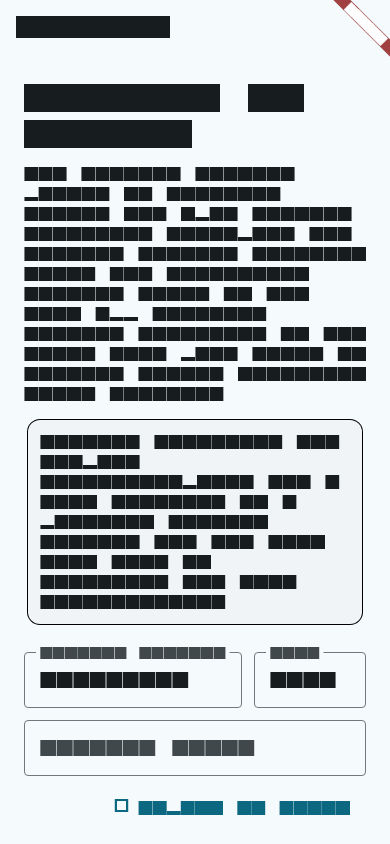
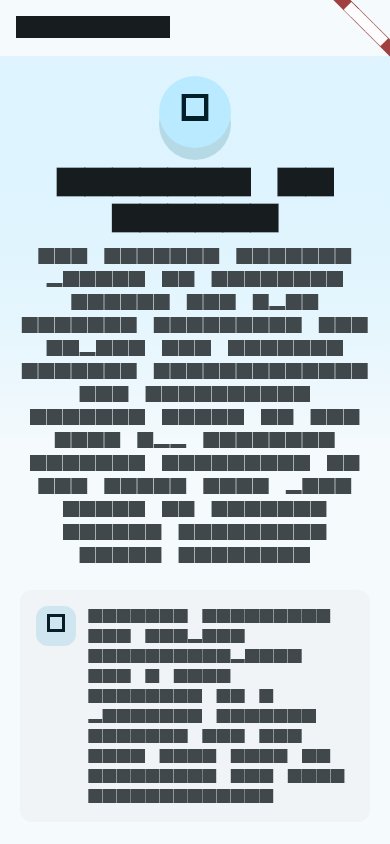
Redact constructed config admin secrets

diff --git a/lib/core/gateway/config_admin/values/navivox_config_admin_values.dart b/lib/core/gateway/config_admin/values/navivox_config_admin_values.dart
@@ -8,11 +8,11 @@ class NavivoxConfigAdminValue {
   const NavivoxConfigAdminValue({
     required this.key,
     required this.type,
-    this.value,
+    Object? value,
     this.secret = false,
     this.secretStatus = '',
     this.source = '',
-  });
+  }) : _value = value;
 
   factory NavivoxConfigAdminValue.fromJson(Map<String, Object?> json) {
     final secret = configAdminIsSecret(json);
@@ -31,13 +31,19 @@ class NavivoxConfigAdminValue {
 
   final String key;
   final String type;
-  final Object? value;
+  final Object? _value;
   final bool secret;
   final String secretStatus;
   final String source;
 
+  bool get _isSecret => secret || configAdminTypeIsSecret(type);
+
+  Object? get value {
+    return configAdminStoredValue(value: _value, secret: _isSecret);
+  }
+
   Object? get formValue {
-    if (!secret) return value;
+    if (!_isSecret) return value;
     return configAdminSecretFormValue(
       secretStatus: secretStatus,
       source: source,

diff --git a/lib/core/channel/gateway/profiles/gateway_profile_contact_policy.dart b/lib/core/channel/gateway/profiles/gateway_profile_contact_policy.dart
@@ -1,7 +1,7 @@
 import '../../../gateway/navivox_gateway_protocol.dart';
-import '../../contracts/channel/navivox_channel_contract.dart';
-import '../../contracts/profiles/navivox_profile_contact_codec.dart';
-import '../../contracts/profiles/navivox_profile_scope.dart';
+import '../../contracts/navivox_channel.dart';
+import '../../contracts/navivox_profile_contact_codec.dart';
+import '../../contracts/navivox_profile_scope.dart';
 
 /// Gateway profile-contact fallback and server-list policy.
 ///

diff --git a/lib/core/channel/gateway/runtime/gateway_navivox_channel.dart b/lib/core/channel/gateway/runtime/gateway_navivox_channel.dart
@@ -9,9 +9,9 @@ import '../../../protocol/navivox_memory.dart';
 import '../../../protocol/navivox_profile_contact_key.dart';
 import '../../../protocol/navivox_voice_run.dart';
 import '../../../session/session_persistence_service.dart';
-import '../../contracts/channel/navivox_channel_contract.dart';
-import '../../contracts/messages/navivox_message_scope.dart';
-import '../../contracts/profiles/navivox_profile_contact_codec.dart';
+import '../../contracts/navivox_channel.dart';
+import '../../contracts/navivox_message_scope.dart';
+import '../../contracts/navivox_profile_contact_codec.dart';
 import '../approvals/gateway_approval_notice.dart';
 import '../client/gateway_capability_policy.dart';
 import '../client/gateway_config_admin_policy.dart';

diff --git a/lib/core/channel/gateway/memory/gateway_memory_request_policy.dart b/lib/core/channel/gateway/memory/gateway_memory_request_policy.dart
@@ -1,6 +1,6 @@
 import '../../../gateway/navivox_gateway_protocol.dart';
-import '../../contracts/channel/navivox_channel_contract.dart';
-import '../../contracts/memory/navivox_memory_scope.dart';
+import '../../contracts/navivox_channel.dart';
+import '../../contracts/navivox_memory_scope.dart';
 
 /// Shared request policy for gateway-backed memory operations.
 ///

diff --git a/lib/core/channel/gateway/messages/gateway_user_turn_policy.dart b/lib/core/channel/gateway/messages/gateway_user_turn_policy.dart
@@ -1,6 +1,6 @@
 import '../../../protocol/navivox_event.dart';
-import '../../contracts/channel/navivox_channel_contract.dart';
-import '../../contracts/messages/navivox_message_scope.dart';
+import '../../contracts/navivox_channel.dart';
+import '../../contracts/navivox_message_scope.dart';
 import '../turns/gateway_turn_metadata_policy.dart';
 
 /// Builds local user transcript messages for turns sent to the gateway.

diff --git a/lib/core/channel/gateway/profiles/gateway_voice_run_policy.dart b/lib/core/channel/gateway/profiles/gateway_voice_run_policy.dart
@@ -1,7 +1,7 @@
 import '../../../protocol/navivox_event.dart';
 import '../../../protocol/navivox_voice_run.dart';
-import '../../contracts/channel/navivox_channel_contract.dart';
-import '../../contracts/profiles/navivox_profile_scope.dart';
+import '../../contracts/navivox_channel.dart';
+import '../../contracts/navivox_profile_scope.dart';
 
 /// Gateway voice-run lifecycle policy.
 ///

diff --git a/lib/core/channel/gateway/approvals/gateway_approval_notice.dart b/lib/core/channel/gateway/approvals/gateway_approval_notice.dart
@@ -1,6 +1,6 @@
 import '../../../gateway/navivox_gateway_protocol.dart';
 import '../../../protocol/navivox_event.dart';
-import '../../contracts/channel/navivox_channel_contract.dart';
+import '../../contracts/navivox_channel.dart';
 
 /// Gateway approval payload shared by stream notifications, tool-call cards,
 /// and durable approval-request messages.

diff --git a/lib/core/channel/gateway/client/gateway_config_admin_policy.dart b/lib/core/channel/gateway/client/gateway_config_admin_policy.dart
@@ -1,5 +1,5 @@
 import '../../../gateway/navivox_gateway_protocol.dart';
-import '../../contracts/channel/navivox_channel_contract.dart';
+import '../../contracts/navivox_channel.dart';
 import 'gateway_capability_policy.dart';
 import 'gateway_client_guard.dart';
 

diff --git a/lib/core/channel/gateway/messages/gateway_assistant_message_policy.dart b/lib/core/channel/gateway/messages/gateway_assistant_message_policy.dart
@@ -1,6 +1,6 @@
 import '../../../gateway/navivox_gateway_protocol.dart';
 import '../../../protocol/navivox_event.dart';
-import '../../contracts/messages/navivox_message_scope.dart';
+import '../../contracts/navivox_message_scope.dart';
 
 /// Builds assistant transcript messages from gateway events.
 ///

diff --git a/lib/core/channel/gateway/messages/gateway_message_scope_policy.dart b/lib/core/channel/gateway/messages/gateway_message_scope_policy.dart
@@ -1,7 +1,7 @@
 import '../../../gateway/messages/navivox_gateway_event.dart';
 import '../../../protocol/navivox_event.dart';
 import '../../../protocol/navivox_json.dart';
-import '../../contracts/messages/navivox_message_scope.dart';
+import '../../contracts/navivox_message_scope.dart';
 
 /// Resolves the server/profile scope for gateway transcript events.
 ///

diff --git a/lib/core/channel/gateway/messages/gateway_safety_notice_policy.dart b/lib/core/channel/gateway/messages/gateway_safety_notice_policy.dart
@@ -1,6 +1,6 @@
 import '../../../gateway/navivox_gateway_protocol.dart';
 import '../../../protocol/navivox_event.dart';
-import '../../contracts/messages/navivox_message_scope.dart';
+import '../../contracts/navivox_message_scope.dart';
 import '../approvals/gateway_approval_notice.dart';
 
 /// Builds safety and approval messages from gateway events.

diff --git a/lib/core/channel/gateway/messages/gateway_tool_call_policy.dart b/lib/core/channel/gateway/messages/gateway_tool_call_policy.dart
@@ -1,6 +1,6 @@
 import '../../../gateway/navivox_gateway_protocol.dart';
 import '../../../protocol/navivox_event.dart';
-import '../../contracts/messages/navivox_message_scope.dart';
+import '../../contracts/navivox_message_scope.dart';
 import '../approvals/gateway_approval_notice.dart';
 import '../codecs/gateway_tool_artifact_codec.dart';
 